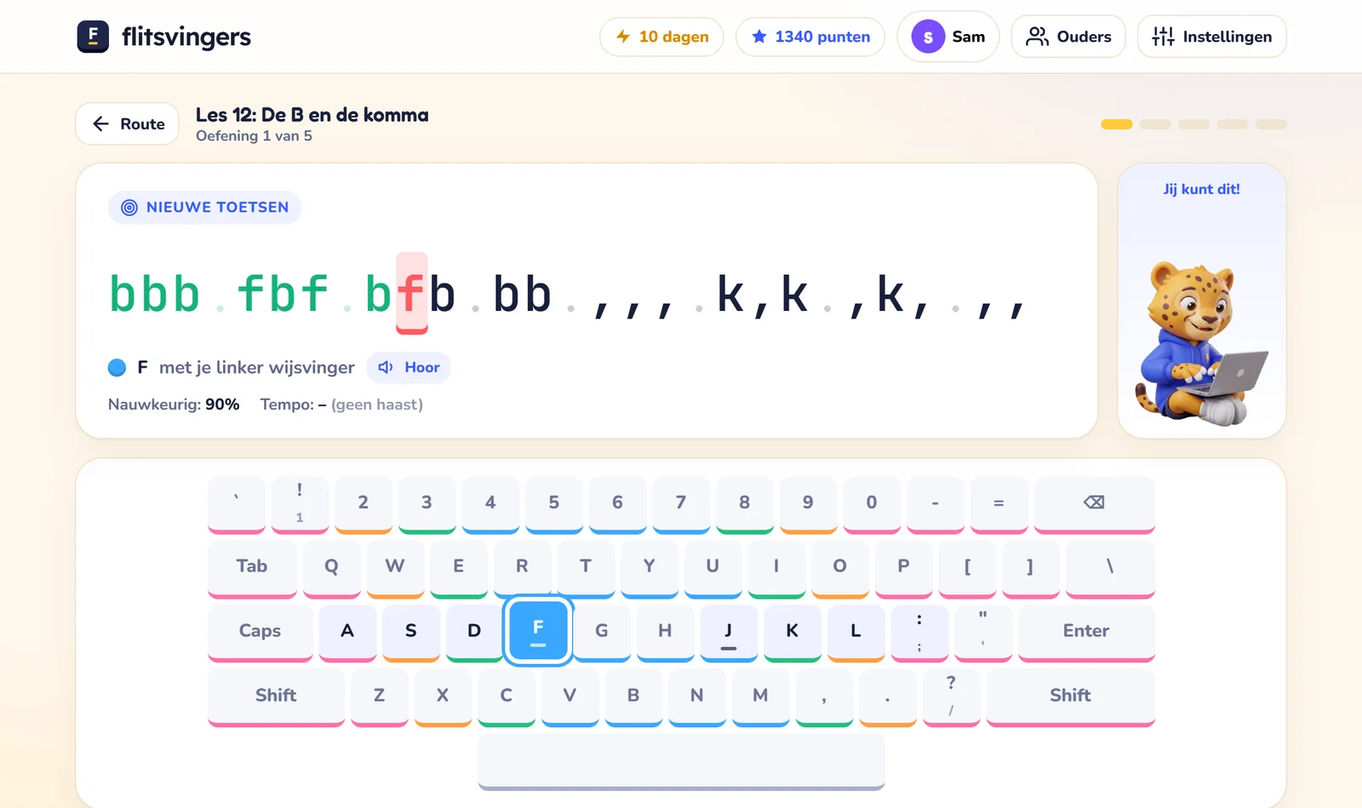
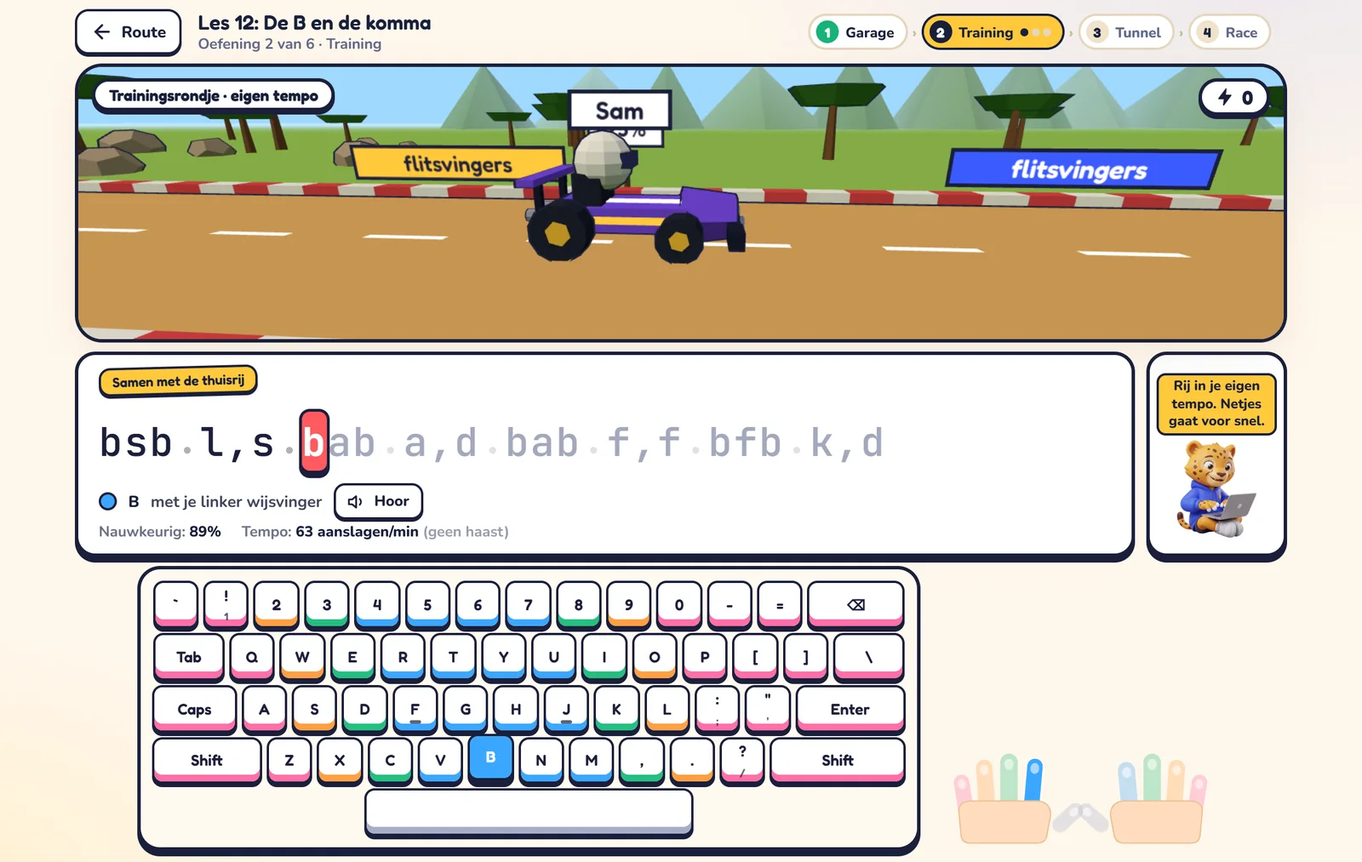
Website aangepast aan de cursus als raceweekend (Tim)
- Mini-les homepage in stijl A met racebaan: plaatje, na Start de echte 3D-baan (Three.js pas bij Start geladen)
- Spatie tijdens de begroeting laat de pagina niet meer verspringen
- Nieuwe schermafbeeldingen les en race (echte cursus, kindertempo)
- Hoe het werkt: "Elke les is een raceweekend"; tunnel = blind typen
- Vragen: 3D-racebaan uitzetten op een trage computer
- 3D-camera dichterbij bij een brede, lage baan (wereld3d.js?v=2)

diff --git a/assets/css/minidemo.css b/assets/css/minidemo.css
@@ -1,27 +1,31 @@
-/* Mini-les "Probeer het zelf, met Flits" (homepage, sinds 12-10-2026). Alle klassen beginnen met md- zodat niets botst. */
-.md{max-width:760px;margin:0 auto calc(var(--ruimte) * 2);background:#fff;border:1.5px solid var(--line2);border-radius:22px;padding:18px 16px 16px;box-shadow:0 14px 34px rgba(21,26,48,.09);text-shadow:none;
---md-pink:#ff5c9a;--md-orange:#ff9a3c;--md-green:#1fbf7a;--md-lblue:#3a95ff;--md-grey:#a7adc6;--md-red:#e5484d}
+/* Mini-les "Probeer het zelf, met Flits" (homepage, sinds 12-10-2026). Alle klassen beginnen met md- zodat niets botst.
+   Sinds 15-10-2026 in stijl A "Sticker" (dikke donkere randen, harde schaduw), net als de cursus en de 3D-racebaan. */
+.md{max-width:760px;margin:0 auto calc(var(--ruimte) * 2);background:#fff;border:3px solid #1b1f3a;border-radius:22px;padding:18px 16px 16px;box-shadow:0 6px 0 #1b1f3a;text-shadow:none;
+--md-nv:#1b1f3a;--md-pink:#ff5c9a;--md-orange:#ff9a3c;--md-green:#1fbf7a;--md-lblue:#3a95ff;--md-grey:#a7adc6;--md-red:#e5484d}
 .md-kop{display:flex;align-items:center;gap:12px;margin:0 0 10px}
-.md-kop img{width:64px;height:64px;object-fit:cover;object-position:50% 18%;border-radius:50%;border:2px solid var(--line2);background:#fff7ec;flex:none}
+.md-kop img{width:64px;height:64px;object-fit:cover;object-position:50% 18%;border-radius:50%;border:2.5px solid var(--md-nv);background:#fff7ec;flex:none}
 .md-kop h2{margin:0;font-size:21px;line-height:1.2}
 .md-kop p{margin:2px 0 0;font-size:14.5px;color:var(--muted)}
 .md-geluid{white-space:nowrap;background:none;border:0;color:var(--muted);font:inherit;font-size:13.5px;text-decoration:underline;cursor:pointer;margin-left:auto;align-self:flex-start;padding:0}
-.md-ballon{min-height:2.6em;background:#fffaf0;border:1px solid var(--line2);border-radius:14px;padding:8px 12px;font-size:15.5px;color:var(--ink);margin:0 0 12px}
-.md-regel{font-family:'JetBrains Mono',ui-monospace,monospace;font-size:clamp(30px,8vw,46px);letter-spacing:.04em;text-align:center;color:#b9bccb;margin:6px 0 12px;white-space:nowrap}
-.md-regel span{display:inline-block;min-width:.62em;border-bottom:3px solid transparent}
-.md-regel .ok{color:var(--md-green)}
-.md-regel .nu{color:var(--ink);border-bottom-color:var(--blue);background:#fff6d6;border-radius:4px}
-.md-regel .fout{color:var(--md-red);background:#ffe3e3}
+.md-ballon{min-height:2.6em;background:#fffaf0;border:2.5px solid var(--md-nv);border-radius:14px;padding:8px 12px;font-size:15.5px;color:var(--ink);margin:0 0 12px}
+/* de racebaan: eerst een plaatje, na Start de echte 3D-baan (canvas eroverheen) */
+.md-baan{position:relative;border:3px solid var(--md-nv);border-radius:16px;overflow:hidden;background:#9fd9ff;margin:0 0 6px;aspect-ratio:1120/280}
+.md-baan img{display:block;width:100%;height:100%;object-fit:cover}
+.md-baan canvas{position:absolute;inset:0;width:100%;height:100%;display:block}
+.md-regel{font-family:'JetBrains Mono',ui-monospace,monospace;font-size:clamp(30px,8vw,46px);letter-spacing:.04em;text-align:center;color:#b9bccb;margin:6px 0 12px;padding:4px 0 6px;white-space:nowrap}
+.md-regel span{display:inline-block;min-width:.62em;border-radius:7px}
+.md-regel .ok{color:var(--md-nv)}
+.md-regel .nu{color:var(--md-nv);background:#ffc93c;box-shadow:0 0 0 2.5px var(--md-nv),0 4px 0 2.5px var(--md-nv)}
+.md-regel .fout{color:#fff;background:var(--md-red)}
 .md-kb{display:grid;gap:7px;user-select:none;-webkit-user-select:none}
 .md-rij{display:flex;gap:clamp(4px,1.2vw,6px);justify-content:center}
-.md-k{flex:0 0 auto;width:clamp(27px,7.9vw,54px);height:clamp(44px,11vw,54px);border-radius:10px;background:#f6f4ef;border:1px solid #e9e4da;border-bottom:4px solid;
-display:grid;place-items:center;font:inherit;font-size:clamp(14px,2.2vw,18px);color:var(--ink);cursor:pointer;padding:0;touch-action:manipulation;transition:transform .07s,background .07s}
-.md-k.pink{border-bottom-color:var(--md-pink)}.md-k.orange{border-bottom-color:var(--md-orange)}.md-k.green{border-bottom-color:var(--md-green)}.md-k.lblue{border-bottom-color:var(--md-lblue)}.md-k.grey{border-bottom-color:var(--md-grey)}
-.md-k.bump{position:relative}.md-k.bump::after{content:"";position:absolute;bottom:22%;width:26%;height:2px;border-radius:2px;background:var(--ink);opacity:.55}
+.md-k{flex:0 0 auto;width:clamp(27px,7.9vw,54px);height:clamp(44px,11vw,54px);border-radius:10px;background:#fff;border:2px solid var(--md-nv);box-shadow:inset 0 -6px 0 var(--fc,#dfe2ec),0 3px 0 var(--md-nv);
+display:grid;place-items:center;font:inherit;font-family:'Fredoka',system-ui,sans-serif;font-weight:600;font-size:clamp(14px,2.2vw,18px);color:var(--md-nv);cursor:pointer;padding:0;touch-action:manipulation;transition:transform .07s,background .07s}
+.md-k.pink{--fc:var(--md-pink)}.md-k.orange{--fc:var(--md-orange)}.md-k.green{--fc:var(--md-green)}.md-k.lblue{--fc:var(--md-lblue)}.md-k.grey{--fc:var(--md-grey)}
+.md-k.bump{position:relative}.md-k.bump::after{content:"";position:absolute;bottom:26%;width:26%;height:2px;border-radius:2px;background:var(--md-nv);opacity:.6}
 .md-k.spatie{width:min(62%,360px);font-size:14px;color:var(--muted)}
-.md-k.doel{color:#fff;transform:translateY(-2px);box-shadow:0 0 0 3px rgba(58,91,255,.25)}
-.md-k.doel.pink{background:var(--md-pink)}.md-k.doel.orange{background:var(--md-orange)}.md-k.doel.green{background:var(--md-green)}.md-k.doel.lblue{background:var(--md-lblue)}.md-k.doel.grey{background:var(--md-grey)}
-.md-k.tik{transform:translateY(2px)}
+.md-k.doel{color:#fff;background:var(--fc);transform:translateY(-3px);box-shadow:0 6px 0 var(--md-nv)}
+.md-k.tik{transform:translateY(2px);box-shadow:inset 0 -6px 0 var(--fc,#dfe2ec)}
 .md-uitleg{text-align:center;font-size:13.5px;color:var(--muted);margin:10px 0 0}
 .md-start{display:flex;justify-content:center;margin:12px 0 4px}
 .md-klaar{text-align:center;margin:10px 0 2px}
@@ -31,9 +35,14 @@ display:grid;place-items:center;font:inherit;font-size:clamp(14px,2.2vw,18px);co
 /* In de bovenkant (sinds 12-10-2026 in plaats van de schermafbeelding): op de laptop rechts naast de kop */
 .hero .md{margin:0;max-width:none;width:100%}
 @media (min-width:981px){
-  .hero .md-k{width:calc((100% - 54px) / 10);height:auto;aspect-ratio:1/1.08}
-  .hero .md-k.spatie{width:60%;aspect-ratio:auto;height:46px}
-  .hero .md-regel{font-size:40px}
+  .hero .md{padding:14px 16px 14px}
+  .hero .md-kop{margin:0 0 8px}.hero .md-kop img{width:54px;height:54px}
+  .hero .md-ballon{min-height:0;margin:0 0 8px}
+  .hero .md-baan{aspect-ratio:1120/225}
+  .hero .md-k{width:calc((100% - 54px) / 10);height:auto;aspect-ratio:1/.8}
+  .hero .md-k.spatie{width:60%;aspect-ratio:auto;height:38px}
+  .hero .md-regel{font-size:36px;margin:2px 0 6px}
+  .hero .md-uitleg{margin:8px 0 0}.hero .md-start{margin:8px 0 2px}
 }
 @media (max-width:980px){.hero .md{margin-top:calc(var(--ruimte) * 2)}}
 /* Telefoon (Tim, 12-10-2026): mini-les helemaal bovenaan, direct onder de kop, zodat je meteen kunt oefenen.
@@ -48,6 +57,8 @@ display:grid;place-items:center;font:inherit;font-size:clamp(14px,2.2vw,18px);co
   .hero .md-kop{gap:10px;margin:0 0 8px}.hero .md-kop img{width:44px;height:44px}
   .hero .md-kop h2{font-size:17px}.hero .md-kop p{font-size:13px;margin:0}
   .hero .md-ballon{min-height:0;font-size:14px;padding:6px 10px;margin:0 0 6px}
+  .hero .md-baan{display:none}                 /* eerste scherm niet langer maken: de baan komt pas na Start */
+  .hero .md.md-bezig .md-baan{display:block}
   .hero .md-regel{font-size:32px;margin:2px 0 8px}
   .hero .md-k{height:44px}
   .hero .md-uitleg{font-size:12.5px;margin:8px 0 0;line-height:1.35}
@@ -55,3 +66,4 @@ display:grid;place-items:center;font:inherit;font-size:clamp(14px,2.2vw,18px);co
 }
 .md-tel{display:none}
 @media (pointer:coarse) and (max-width:820px){.md-laptop{display:none}.md-tel{display:inline}.md-klaar .md-tel{display:inline-flex}.md-rij.md-laptop{display:none}}
+@media (prefers-reduced-motion:reduce){.md-k,.md-k.doel,.md-k.tik{transition:none;transform:none}}

diff --git a/index.html b/index.html
@@ -22,7 +22,8 @@
 <link rel="stylesheet" href="assets/fonts/fonts.css">
 <link rel="stylesheet" href="assets/css/menu.css">
 <link rel="stylesheet" href="assets/css/site.css?v=4">
-<link rel="stylesheet" href="assets/css/minidemo.css?v=3">
+<link rel="stylesheet" href="assets/css/minidemo.css?v=4">
+<script type="importmap">{"imports":{"three":"./assets/vendor/three.module.min.js?v=0.160.0"}}</script>
 </head>
 <body class="home">
 
@@ -58,6 +59,7 @@
     <section class="md" id="minidemo" aria-label="Probeer het zelf, met Flits">
       <div class="md-kop"><img src="assets/img/flits_typen.webp" alt="" width="64" height="64"><div><h2>Probeer het zelf, met Flits</h2><p>Een stukje uit les 1. Zet je geluid aan.</p></div><button class="md-geluid" type="button">geluid uit</button></div>
       <p class="md-ballon" aria-live="polite">Druk op Start, dan legt Flits het uit.</p>
+      <div class="md-baan" aria-hidden="true"><img src="assets/img/md_baan.webp" alt="" width="1120" height="226"></div>
       <div class="md-regel" aria-hidden="true"></div>
       <div class="md-kb"><div class="md-rij md-laptop"><button type="button" class="md-k pink" data-k="q">Q</button><button type="button" class="md-k orange" data-k="w">W</button><button type="button" class="md-k green" data-k="e">E</button><button type="button" class="md-k lblue" data-k="r">R</button><button type="button" class="md-k lblue" data-k="t">T</button><button type="button" class="md-k lblue" data-k="y">Y</button><button type="button" class="md-k lblue" data-k="u">U</button><button type="button" class="md-k green" data-k="i">I</button><button type="button" class="md-k orange" data-k="o">O</button><button type="button" class="md-k pink" data-k="p">P</button></div><div class="md-rij"><button type="button" class="md-k pink" data-k="a">A</button><button type="button" class="md-k orange" data-k="s">S</button><button type="button" class="md-k green" data-k="d">D</button><button type="button" class="md-k lblue bump" data-k="f">F</button><button type="button" class="md-k lblue" data-k="g">G</button><button type="button" class="md-k lblue" data-k="h">H</button><button type="button" class="md-k lblue bump" data-k="j">J</button><button type="button" class="md-k green" data-k="k">K</button><button type="button" class="md-k orange" data-k="l">L</button></div><div class="md-rij md-laptop"><button type="button" class="md-k pink" data-k="z">Z</button><button type="button" class="md-k orange" data-k="x">X</button><button type="button" class="md-k green" data-k="c">C</button><button type="button" class="md-k lblue" data-k="v">V</button><button type="button" class="md-k lblue" data-k="b">B</button><button type="button" class="md-k lblue" data-k="n">N</button><button type="button" class="md-k lblue" data-k="m">M</button></div><div class="md-rij"><button type="button" class="md-k spatie grey" data-k=" ">spatie</button></div></div>
       <p class="md-uitleg"><span class="md-laptop">Leg je vingers op de thuisrij en typ op je eigen toetsenbord.</span><span class="md-tel">Op de telefoon tik je de toetsen aan. Echt blind typen oefen je op de laptop.</span></p>
@@ -82,7 +84,7 @@
       <p>Korte lessen die voelen als een spel, met een coach die alles voorleest. Lees hoe een les eruitziet, wat je als ouder meekrijgt en wat het diploma betekent.</p>
     </div>
     <div class="teasers">
-      <a class="teaser" href="hoe-het-werkt.html"><img src="assets/img/shot_les.webp?v=2" alt="Een oefening: getypte letters worden groen en de cursor wacht op de goede toets" width="1600" height="949" loading="lazy"><h3>Hoe het werkt</h3><p>Lessen van ongeveer tien minuten, races tegen Flits en fouten maken mag. Probeer het meteen op de laptop.</p><span class="arrow">Lees meer <span aria-hidden="true">→</span></span></a>
+      <a class="teaser" href="hoe-het-werkt.html"><img src="assets/img/shot_les.webp?v=3" alt="Een oefening op de racebaan: getypte letters worden donker, een fout wordt rood en de cursor wacht op de goede toets" width="1600" height="1013" loading="lazy"><h3>Hoe het werkt</h3><p>Lessen van ongeveer tien minuten, races tegen Flits en fouten maken mag. Probeer het meteen op de laptop.</p><span class="arrow">Lees meer <span aria-hidden="true">→</span></span></a>
       <a class="teaser" href="voor-ouders.html"><img src="assets/img/shot_kaart.webp?v=2" alt="De route langs 30 lessen naar het diploma, met de voortgang van een kind" width="1600" height="1149" loading="lazy"><h3>Voor ouders</h3><p>Je kind oefent zelfstandig en jij krijgt één mail per week. Met dyslexie-modus en rustige modus, veilig en zonder reclame.</p><span class="arrow">Lees meer <span aria-hidden="true">→</span></span></a>
       <a class="teaser" href="voor-ouders.html#diploma"><img src="assets/img/shot_diploma.webp?v=2" alt="Voorbeeld van een Flitsvingers-diploma met QR-code" width="1400" height="991" loading="lazy"><h3>Het diploma</h3><p>Een openbare eis: 5 minuten typen met 100 aanslagen per minuut en maximaal 3% fouten. Met een QR-code om te controleren.</p><span class="arrow">Lees meer <span aria-hidden="true">→</span></span></a>
     </div>
@@ -239,7 +241,7 @@
 <script>window.goatcounter = { path: function () { return location.pathname }, endpoint: 'https://flitsvingers.goatcounter.com/count' };
 // count.js stuurt ook het ?-deel van de link mee: bij een e-mailadres, code of naam in de link tellen we niet
 if (!/[?&](email|code|id|l|nick|test|done|session_id)=/i.test(location.search)) { var gcs = document.createElement('script'); gcs.async = true; gcs.src = 'https://gc.zgo.at/count.js'; gcs.setAttribute('data-goatcounter', 'https://flitsvingers.goatcounter.com/count'); document.head.appendChild(gcs); }</script>
-<script src="assets/js/minidemo.js?v=3" defer></script>
+<script src="assets/js/minidemo.js?v=4" defer></script>
 <script src="assets/js/site.js?v=2" defer></script>
 <script src="assets/js/menu.js" defer></script>
 </body>

diff --git a/assets/js/minidemo.js b/assets/js/minidemo.js
@@ -2,7 +2,9 @@
    Werkt op de laptop (eigen toetsenbord) en op de telefoon (toetsen aantikken). Flits praat met de bestaande opnames.
    Onderbouwing: gratis proberen werkt alleen als het NU kan (Bawa & Shoemaker 2004); 90% van het bezoek zit op een telefoon.
    Regels: Flits praat over de letter die NU oplicht (een nieuwe zin breekt de vorige af); bij een fout moedigt hij aan,
-   hooguit eens per 4 s en nooit door een andere zin heen. Meten: minidemo-gestart-, minidemo-klaar-, minidemo-les1-, minidemo-mail- + telefoon/laptop. */
+   hooguit eens per 4 s en nooit door een andere zin heen. Meten: minidemo-gestart-, minidemo-klaar-, minidemo-les1-, minidemo-mail- + telefoon/laptop.
+   Sinds 15-10-2026: dezelfde 3D-racebaan als in de cursus. Pas bij Start laden we wereld3d.js + Three.js (eigen site);
+   tot die tijd (en als 3D niet kan) staat er een plaatje van de baan. Elke goede letter = de kart rijdt verder. */
 (() => {
   const vak = document.getElementById('minidemo');
   if (!vak) return;
@@ -12,8 +14,23 @@
   const APP = matchMedia('(pointer:coarse) and (max-width:820px)').matches ? 'telefoon' : 'laptop';
   const tel = (path, title) => { try { if (window.goatcounter && window.goatcounter.count) window.goatcounter.count({ path: path + '-' + APP, title: title + ' (' + APP + ')', event: true }); } catch (e) {} };
   const $ = s => vak.querySelector(s);
-  const regel = $('.md-regel'), ballon = $('.md-ballon');
-  let pos = -1, gehad = new Set(), aan = true, bezig = false, huidig = null, laatsteOpnieuw = 0;
+  const regel = $('.md-regel'), ballon = $('.md-ballon'), baan = $('.md-baan');
+  let pos = -1, gehad = new Set(), aan = true, bezig = false, huidig = null, laatsteOpnieuw = 0, reeks = 0, W = null;
+
+  /* 3D-racebaan: alleen als het apparaat het kan en niemand om minder beweging vraagt */
+  const rustig = matchMedia('(prefers-reduced-motion: reduce)').matches;
+  function wereld() {
+    if (W !== null || rustig || !baan) return Promise.resolve(W);
+    W = false;
+    return import('./wereld3d.js?v=2').then(() => {
+      const w = window.FV3D && window.FV3D.maak(baan, { nick: 'Jij', kleur: '#3a5bff' });
+      if (!w) return null;
+      W = w; W.delen(4); W.modus('training'); W.pauze(false); W.start(); vak.classList.add('md-3d');
+      // niet in beeld = niet tekenen (scheelt batterij)
+      if ('IntersectionObserver' in window) new IntersectionObserver(e => { if (W) W.pauze(!e[0].isIntersecting); }).observe(baan);
+      return W;
+    }).catch(() => null);
+  }
 
   function stil() { if (huidig) { huidig.onended = huidig.onerror = null; huidig.pause(); huidig = null; } }
   function speel(naam, naDan) {
@@ -32,6 +49,7 @@
   function zetDoel() {
     vak.querySelectorAll('.md-k.doel').forEach(k => k.classList.remove('doel'));
     vakjes.forEach((v, i) => { v.className = i < pos ? 'ok' : i === pos ? 'nu' : ''; });
+    if (W) W.kid(pos / OEFENING.length);
     if (pos >= OEFENING.length) return klaar();
     const t = OEFENING[pos]; const k = toets(t); if (k) k.classList.add('doel');
     // De tekst volgt ALTIJD de letter die nu oplicht (Tim 12-10: bleef anders na de eerste spatie op "De spatiebalk" staan);
@@ -42,27 +60,32 @@
   function druk(t) {
     if (!bezig) return;
     const k = toets(t); if (k) { k.classList.add('tik'); setTimeout(() => k.classList.remove('tik'), 90); }
-    if (t === OEFENING[pos]) { pos++; zetDoel(); return; }
+    if (t === OEFENING[pos]) { pos++; reeks++; if (W) W.goed(reeks); zetDoel(); return; }
+    reeks = 0; if (W) W.fout();
     const v = vakjes[pos]; v.className = 'nu fout'; setTimeout(() => { if (vakjes[pos] === v) v.className = 'nu'; }, 350);
     ballon.textContent = 'Goed geprobeerd! Probeer het nog een keer. Zoek de toets die oplicht.';
     if (!huidig && Date.now() - laatsteOpnieuw > 4000) { laatsteOpnieuw = Date.now(); speel('demo_opnieuw'); }
   }
   function klaar() {
     bezig = false;
+    if (W) { W.finish(true); setTimeout(() => { if (W) W.pauze(true); }, 9000); }
     ballon.textContent = 'Wauw, goed gedaan! Heel goed bezig. Ga snel verder met de eerste les van de gratis cursus!';
     speel('demo_klaar'); $('.md-klaar').hidden = false; $('.md-start').hidden = true; tel('minidemo-klaar', 'Mini-les afgemaakt');
   }
 
   $('.md-startknop').addEventListener('click', () => {
-    pos = 0; gehad = new Set(); $('.md-start').hidden = true;
+    pos = 0; reeks = 0; gehad = new Set(); $('.md-start').hidden = true; vak.classList.add('md-bezig');
     ballon.textContent = 'Hoi, ik ben Flits! Typ de letter die oplicht. Daar gaan we!';
     tel('minidemo-gestart', 'Mini-les gestart');
+    wereld();   // laadt tijdens de begroeting; lukt het niet, dan blijft het plaatje staan
     speel('demo_start', () => { bezig = true; zetDoel(); });   // eerste letter pas na de begroeting
   });
   vak.querySelectorAll('.md-k').forEach(k => k.addEventListener('pointerdown', e => { e.preventDefault(); druk(k.dataset.k); }));
   document.addEventListener('keydown', e => {
-    if (!bezig || e.ctrlKey || e.metaKey || e.altKey) return;
+    if (e.ctrlKey || e.metaKey || e.altKey) return;
     if (e.target && /^(INPUT|TEXTAREA|SELECT)$/.test(e.target.tagName)) return;
+    // tijdens de begroeting al typen: niets doen, maar de pagina ook niet laten verspringen (spatie scrolt anders)
+    if (!bezig) { if (e.key === ' ' && vak.classList.contains('md-bezig') && $('.md-klaar').hidden) e.preventDefault(); return; }
     if (e.key.length === 1) { e.preventDefault(); druk(e.key.toLowerCase()); }
   });
   $('.md-geluid').addEventListener('click', e => { aan = !aan; e.currentTarget.textContent = aan ? 'geluid uit' : 'geluid aan'; if (!aan) stil(); });

diff --git a/vragen.html b/vragen.html
@@ -49,7 +49,7 @@
   <div class="wrap">
     <div class="faq-lijst">
       <details><summary>Vanaf welke leeftijd?</summary><p>Vanaf groep 6, ongeveer 9 jaar. Je kind moet goed kunnen lezen en de handen moeten groot genoeg zijn om de thuisrij te bereiken. De meeste kinderen beginnen in groep 6, 7 of 8. <a href="vanaf-welke-leeftijd-typen.html" style="color:var(--blue);font-weight:700">Zo zie je of je kind er klaar voor is</a>.</p></details>
-      <details><summary>Welke apparaten werken?</summary><p>Alles met een browser en een echt toetsenbord: laptop, Chromebook, Windows, Mac of een tablet met los toetsenbord. Op een telefoon werkt het niet, omdat je kind daar niet met tien vingers kan typen.</p></details>
+      <details><summary>Welke apparaten werken?</summary><p>Alles met een browser en een echt toetsenbord: laptop, Chromebook, Windows, Mac of een tablet met los toetsenbord. Op een telefoon werkt het niet, omdat je kind daar niet met tien vingers kan typen. De lessen spelen zich af op een racebaan in 3D. Is de computer oud of traag, zet die dan uit bij Instellingen: alles werkt dan gewoon, zonder 3D.</p></details>
       <details><summary>Werkt het met een Belgisch toetsenbord (AZERTY)?</summary><p>Nog niet. De cursus is gemaakt voor het toetsenbord dat in Nederland op bijna elke laptop en Chromebook zit (QWERTY). Op een Belgisch AZERTY-toetsenbord staan letters op andere plekken. Twijfel je? Kijk of de bovenste letterrij begint met Q W E R T Y, of speel eerst de gratis proefles.</p></details>
       <details><summary>Hoe lang duurt de cursus?</summary><p>30 lessen van ongeveer tien minuten. Wie vijf dagen per week oefent, is in ongeveer 8 tot 12 weken klaar. Je hebt een jaar toegang, dus er is geen haast.</p></details>
       <details><summary>Mijn kind heeft dyslexie of ADHD. Werkt het dan ook?</summary><p>Ja. De dyslexie-modus, het voorlezen en de rustige modus zitten er standaard in. Bij dyslexie geldt een lagere snelheidseis voor het diploma: 75 in plaats van 100 aanslagen per minuut. <a href="typecursus-dyslexie.html" style="color:var(--blue);font-weight:700">Meer over typen bij dyslexie</a>.</p></details>
@@ -123,7 +123,7 @@
      "name": "Welke apparaten werken?",
      "acceptedAnswer": {
       "@type": "Answer",
-      "text": "Alles met een browser en een echt toetsenbord: laptop, Chromebook, Windows, Mac of een tablet met los toetsenbord. Op een telefoon werkt het niet, omdat je kind daar niet met tien vingers kan typen."
+      "text": "Alles met een browser en een echt toetsenbord: laptop, Chromebook, Windows, Mac of een tablet met los toetsenbord. Op een telefoon werkt het niet, omdat je kind daar niet met tien vingers kan typen. De lessen spelen zich af op een racebaan in 3D. Is de computer oud of traag, zet die dan uit bij Instellingen: alles werkt dan gewoon, zonder 3D."
      }
     },
     {

diff --git a/hoe-het-werkt.html b/hoe-het-werkt.html
@@ -67,14 +67,14 @@
     <div class="feature">
       <div class="media shot">
         <div class="bar"><i></i><i></i><i></i><span>flitsvingers.nl</span></div>
-        <img src="assets/img/shot_les.webp?v=2" alt="Een oefening: getypte letters worden groen, een fout wordt rood en de cursor wacht op de goede toets" width="1600" height="949" loading="lazy">
+        <img src="assets/img/shot_les.webp?v=3" alt="Een oefening op de racebaan: getypte letters worden donker, een fout wordt rood en de cursor wacht op de goede toets" width="1600" height="1013" loading="lazy">
       </div>
       <div>
         <h3>Fouten maken mag</h3>
         <p>Typt je kind een verkeerde letter, dan kleurt die rood en wacht de cursor op de goede toets. Je kind hoeft nooit opnieuw te beginnen. Letters die vaak misgaan, komen aan het eind van de les nog even terug.</p>
         <ul class="checks">
           <li>Het toetsenbord en de handen laten zien welke vinger welke toets typt</li>
-          <li>Elke les eindigt met een blind-rondje, zonder toetsenbord in beeld</li>
+          <li>In de tunnel typt je kind blind: het toetsenbord verdwijnt van het scherm</li>
           <li>Geen piepjes of rode schermen bij een fout</li>
         </ul>
       </div>
@@ -83,11 +83,11 @@
     <div class="feature flip">
       <div class="media shot">
         <div class="bar"><i></i><i></i><i></i><span>flitsvingers.nl</span></div>
-        <img src="assets/img/shot_race.webp?v=2" alt="Een race tegen Flits: twee banen, het kind ligt voor" width="1600" height="796" loading="lazy">
+        <img src="assets/img/shot_race.webp?v=3" alt="Een race tegen Flits op de 3D-racebaan: het kind ligt net voor" width="1600" height="1013" loading="lazy">
       </div>
       <div>
-        <h3>Racen tegen Flits</h3>
-        <p>Tussen de oefeningen door racet je kind tegen Flits, de coach van de cursus. Later komen er snelheidsrondes van een minuut bij. Zo gaat het tempo vanzelf omhoog, zonder dat het voelt als een toets.</p>
+        <h3>Elke les is een raceweekend</h3>
+        <p>In de garage leert je kind de nieuwe toetsen: elke goede toets is een onderdeel voor de eigen kart. Daarna volgen trainingsrondjes, een blinde tunnel en aan het eind een race tegen Flits, de coach van de cursus. Flits rijdt net iets sneller dan je kind in de training. Zo gaat het tempo vanzelf omhoog, zonder dat het voelt als een toets.</p>
         <p>Voor elke les zijn er sterren te verdienen, en voor bijzondere prestaties stickers. Wie een paar dagen achter elkaar oefent, bouwt een reeks op.</p>
       </div>
     </div>

diff --git a/assets/js/wereld3d.js b/assets/js/wereld3d.js
@@ -175,7 +175,8 @@ function maak(box, opts = {}) {
     if (modus === 'garage') { const ver = cam.aspect > 3.2 ? 0 : 1.6; cam.position.set(GX + 3.4 + ver * .6, 2.5 + ver * .5, 6.2 + ver * 1.8); cam.lookAt(GX - .9, 1.3, -.4); }
     else if (feest > 0) { draai = Math.min(.5, draai + dt * .3); const h = .2 + draai; cam.position.set(kidX + Math.sin(h) * 8, 3.4, jij.position.z + Math.cos(h) * 8); cam.lookAt(kidX, 1.2, jij.position.z); }
     else if (modus === 'tunnel') { cam.position.set(kidX - 6.5 + sx, 2.6 + sy + e * 6, jij.position.z + .3 + e * 8); cam.lookAt(kidX + 6, 1.1, jij.position.z); }
-    else { const mid = modus === 'race' ? kidX * .75 + flits.position.x * .25 : kidX; cam.position.set(mid + 2.5 + sx - e * 4, 3.6 + sy + e * 14, 10.5 + e * 16); cam.lookAt(mid + 1.8, 1 - e * .5, .2); }
+    else { const mid = modus === 'race' ? kidX * .75 + flits.position.x * .25 : kidX; const k = cam.aspect > 3.2 ? (modus === 'race' ? .9 : .72) : 1;   // brede, lage baan: camera dichterbij (bij de race minder, zodat Flits ook in beeld is)
+      cam.position.set(mid + 2.5 * k + sx - e * 4, 3.6 * k + .6 * (1 - k) + sy + e * 14, 10.5 * k + e * 16); cam.lookAt(mid + 1.8 * k, 1 - e * .5, .2); }
     wolken.forEach((w, i) => { w.position.x += dt * (.4 + i * .05); if (w.position.x > L + 60) w.position.x = -40; });
     if (feest > 0 && Math.random() < .9) strooi(L + 1, 6, (Math.random() - .5) * 9, 3, ['#ffc93c', '#3a5bff', '#e5484d', '#12a26b'], 1.6);
     renderer.render(scene, cam);

diff --git a/proefles-aanvragen.html b/proefles-aanvragen.html
@@ -50,7 +50,7 @@
 
   <figure class="shot aanvraag-shot">
     <div class="bar"><i></i><i></i><i></i><span>flitsvingers.nl</span></div>
-    <img src="assets/img/shot_les.webp" width="1600" height="949" alt="Zo ziet een les eruit op de laptop: het toetsenbord met de juiste vinger, en Flits die voorleest" loading="lazy">
+    <img src="assets/img/shot_les.webp?v=3" width="1600" height="1013" alt="Zo ziet een les eruit op de laptop: het toetsenbord met de juiste vinger, en Flits die voorleest" loading="lazy">
   </figure>
   <p class="shot-onder">Zo ziet een les eruit op de laptop.</p>
 

diff --git a/cursus.html b/cursus.html
@@ -12,7 +12,7 @@
 <link rel="preload" href="assets/data/lessen.json" as="fetch" crossorigin>
 <link rel="preload" href="assets/data/teksten.json" as="fetch" crossorigin>
 <script type="importmap">{"imports":{"three":"./assets/vendor/three.module.min.js?v=0.160.0"}}</script>
-<script type="module" src="assets/js/wereld3d.js?v=1"></script>
+<script type="module" src="assets/js/wereld3d.js?v=2"></script>
 <style>
 :root{
   --bg:#fff7ec;--bg2:#fff0dc;--card:#ffffff;--line:#f0e2cc;--line2:#e6d6bd;
